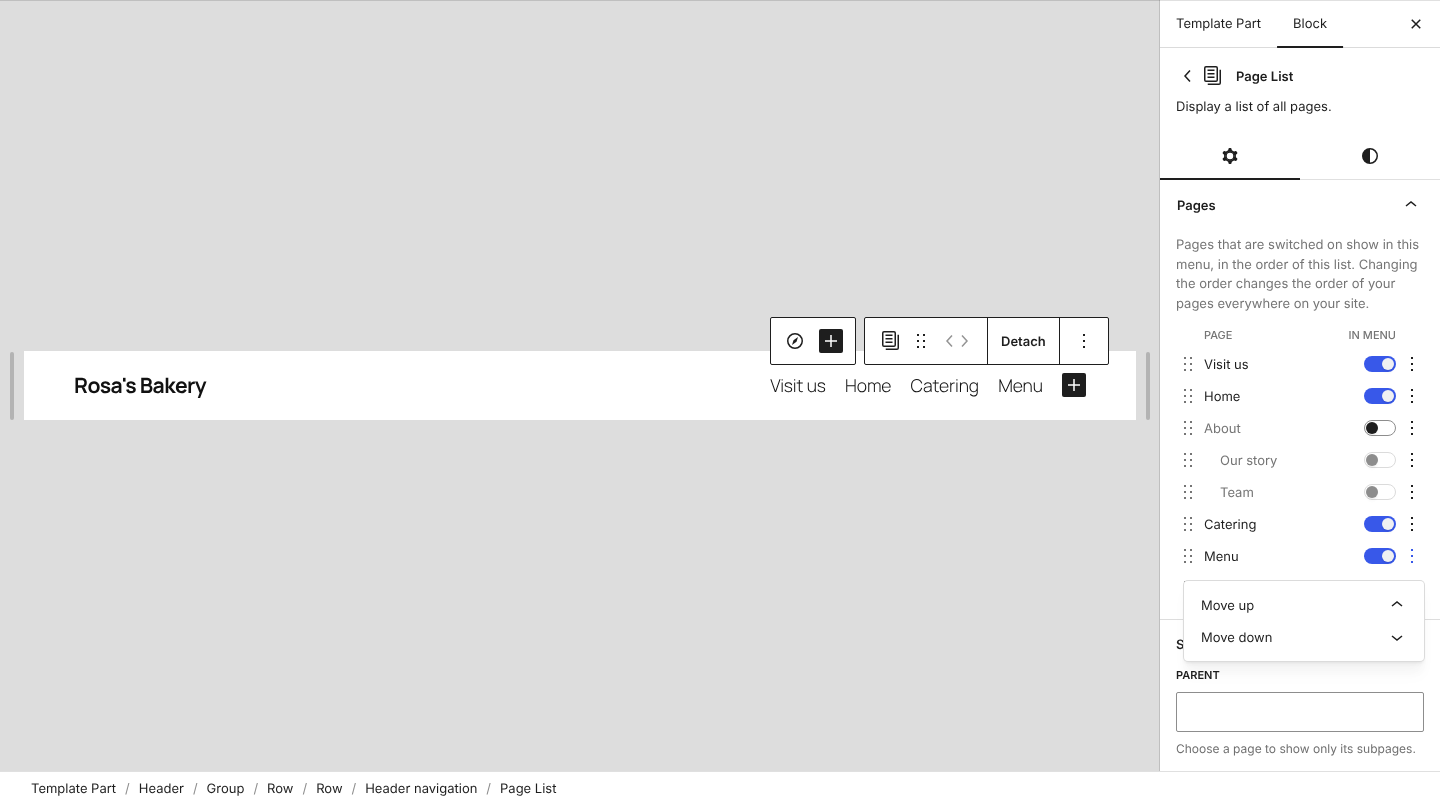
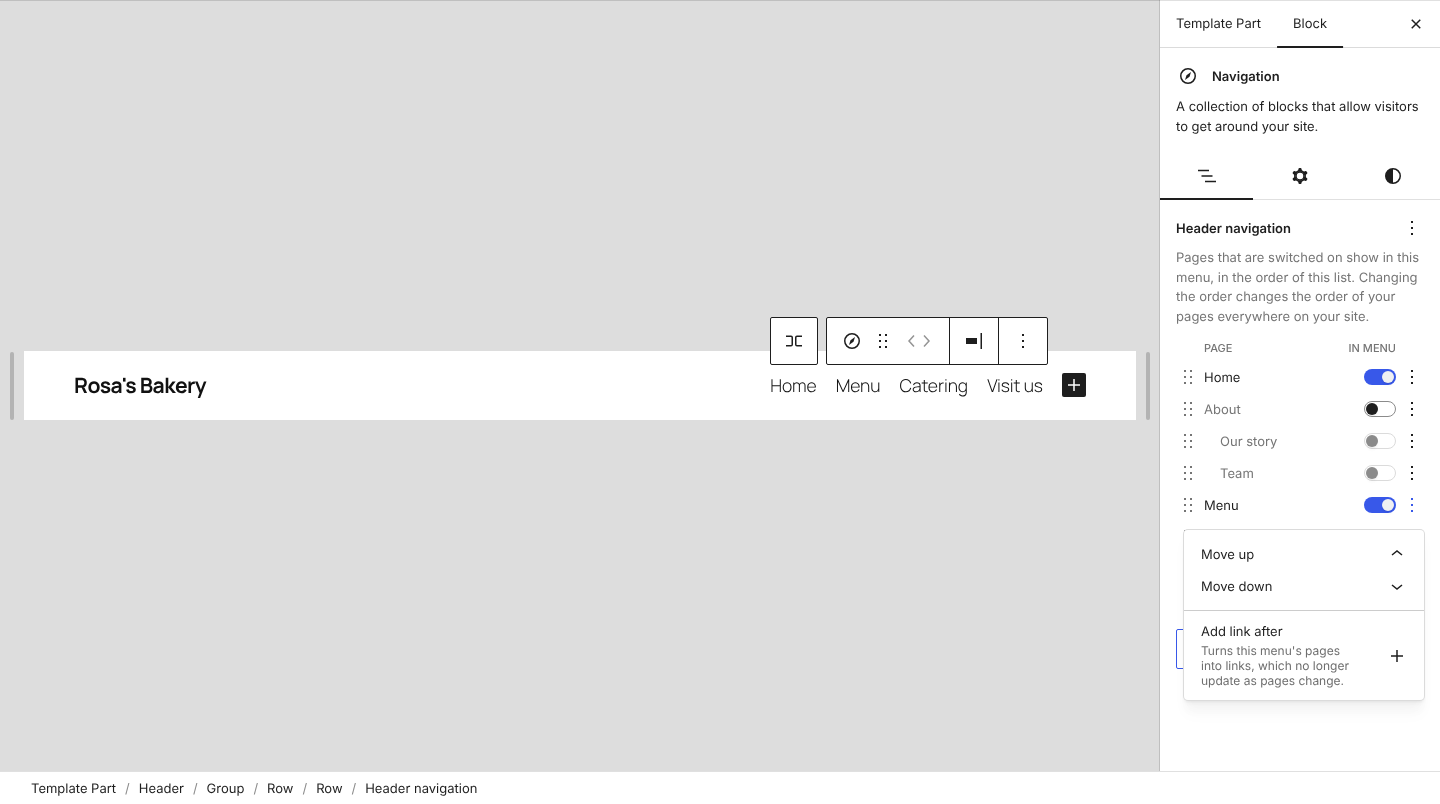
Quinn: pages in the Navigation block's sidebar, drag chip, Add link
Updates the README, screenshots and demo hint for PR #86525 at 7907529:
the Navigation block's sidebar lists the Page List's pages, a chip follows
the cursor while dragging a page, and links are added with Add link or
Add link after.

Claude-Session: https://claude.ai/code/session_019rCnBswqEpRtSyRyjYh3AX

diff --git a/index.html b/index.html
@@ -131,7 +131,7 @@
       <a href="quinn/">
         <strong>Quinn</strong>
         <em>Reorder and hide pages in a Page List menu</em>
-        <span>A Gutenberg pull request: O'Keeffe's prototype F in the real editor. A Page List in the header's menu gets a Pages panel, where you drag pages into a new order and switch them on or off, and the menu stays automatic. Opens a live demo running in WordPress Playground, in your browser.</span>
+        <span>A Gutenberg pull request: O'Keeffe's prototype F in the real editor. The header's menu, a Page List, shows its pages in the sidebar, where you drag them into a new order and switch them on or off, and the menu stays automatic. Opens a live demo running in WordPress Playground, in your browser.</span>
       </a>
     </li>
   </ul>

diff --git a/quinn/index.html b/quinn/index.html
@@ -35,7 +35,7 @@
 
 <div class="bar">
   <strong>Quinn</strong>
-  <span class="hint">Click the header's menu, then Page List in the sidebar. Drag a page to reorder, or switch it off to hide it.</span>
+  <span class="hint">Click the header's menu: the sidebar lists every page. Drag one to reorder, or switch it off to hide it.</span>
   <span class="spacer"></span>
   <a href="https://github.com/Automattic/site-editing-experiments/tree/trunk/quinn#readme">About Quinn</a>
   <a href="https://github.com/WordPress/gutenberg/pull/86525">Gutenberg PR</a>

diff --git a/quinn/README.md b/quinn/README.md
@@ -10,57 +10,68 @@ It's [O'Keeffe](../okeeffe/)'s prototype F, "All pages with menu switches", in t
 
 Locally, check out the `add/page-list-reorder-and-hide-pages` branch of Gutenberg and build it. There's no experiment to turn on.
 
-The build is `gutenberg.zip` in this folder, the PR's own build at `b38609e`, kept here because the PR's builds expire after 14 days. When the PR changes, replace it: download `gutenberg.zip` from the PR's latest **Build Gutenberg Plugin Zip** run, or check out the branch and run `npm ci` and `NO_CHECKS=true npm run build:plugin-zip`.
+The build is `gutenberg.zip` in this folder, the PR's own build at `7907529`, kept here because the PR's builds expire after 14 days. When the PR changes, replace it: download `gutenberg.zip` from the PR's latest **Build Gutenberg Plugin Zip** run, or check out the branch and run `npm ci` and `NO_CHECKS=true npm run build:plugin-zip`.
 
 ## What's in it
 
-### The Pages panel
+### Pages, straight in the Navigation block
 
-![The header's menu selected, with the Page List and its pages in the sidebar, each page with a lock](screenshots/menu-list.png)
+![The header's menu selected: the sidebar lists every page, each with a drag handle, an In menu switch and a ⋮ button, with Our story and Team indented under About, and an Add link button below](screenshots/navigation-sidebar.png)
 
-Click the menu in the header, then **Page List** in the sidebar's list of the menu's items. The Page List's settings open with a **Pages** panel at the top. Every page is listed with its child pages indented under it (Our story and Team, under About). Each row has:
+Click the menu in the header. Where the Navigation block's sidebar would list the Page List, it lists the pages themselves, with their child pages indented under them (Our story and Team, under About). Each row has:
 
-- a **drag handle**: drag a page up or down among the pages at its level, and its child pages go with it. Focus the handle and use the up and down arrow keys to do the same from the keyboard.
+- a **drag handle**: drag a page up or down among the pages at its level, and its child pages go with it. While you drag, a chip with the page's title follows the cursor, like the one shown when dragging blocks. Focus the handle and use the up and down arrow keys to do the same from the keyboard.
 - an **In menu** switch: turn it off and the page leaves the menu. Pages that are off are still published, at their usual address.
-- a **⋮ menu** with Move up and Move down.
+- a **⋮ menu** with Move up, Move down and Add link after.
 
-![The Pages panel: every page with a drag handle, an In menu switch and a ⋮ button, Our story and Team indented under About](screenshots/pages-panel.png)
+![Dragging Catering: a dark chip with its title follows the cursor, the row it came from is faded, and a line shows where it will land](screenshots/drag-chip.png)
 
-![The ⋮ menu for Menu, with Move up and Move down](screenshots/options-menu.png)
+![The ⋮ menu for Menu, with Move up, Move down and Add link after](screenshots/options-menu.png)
 
-In the menu's list, each page now has a lock icon, since its place is set in this panel and it can't be dragged out of the Page List. Clicking a page no longer opens a dialog asking whether to detach the Page List. Detach is still in the toolbar and in Settings, for menus that need custom links or a different order from the site's.
+The pages in the canvas can't be selected on their own, and the Page List no longer appears in the Navigation block's list of items. The same controls are in the Page List's own sidebar, under **Pages**, if you select it another way.
+
+### Adding links
+
+When the menu is only pages, an **Add link** button sits below them. It adds a link after the pages and opens its search. The menu's list of items then appears below the pages, with the Page List as one row, since its pages are edited above.
+
+![After Add link: the new link's search is open in the header, suggesting a post, and the sidebar shows the pages, then a list with Page List and Navigation Link](screenshots/add-link.png)
+
+A link can't go between two pages of a Page List. So **Add link after** in a page's ⋮ menu turns the menu's pages into links first, as Detach does, then adds the new link after that page and opens its search. The ⋮ menu says so. From then on the menu is links, which no longer update as pages change.
+
+![After Add link after Menu: the sidebar lists the pages as links, with a new Navigation Link after Menu, and its search is open in the header](screenshots/add-link-after.png)
 
 ### Order is page order
 
-Page List shows pages in page order (`menu_order`), so that's what the panel changes. The menu stays automatic: a new page still appears in it, in its place. The pages you reorder appear in the save panel alongside the menu, and one Undo puts a whole move back. ![The save panel listing four pages, Home, About, Menu and Visit us, and the Header navigation menu](screenshots/save-panel.png)
+Page List shows pages in page order (`menu_order`), so that's what the controls change. The menu stays automatic: a new page still appears in it, in its place. The pages you reorder appear in the save panel alongside the menu, and one Undo puts a whole move back.
 
-Because it's the site's page order, it changes every Page List on the site, and the panel's help text says so. People who can't edit pages get the switches but no reorder controls.
+![The save panel listing four pages, Home, About, Menu and Visit us, and the Header navigation menu](screenshots/save-panel.png)
+
+Because it's the site's page order, it changes every Page List on the site, and the help text says so. People who can't edit pages get the switches but no reorder controls.
 
 ### Hiding a page
 
-A page that's switched off is saved on the block, in a new `excludedPageIDs` attribute, not on the page. The server leaves it out with `get_pages()` `exclude_tree`, so its child pages go too. In the panel, a hidden page's child pages show their switches off and disabled. Switch the parent back on and they return as they were. Older WordPress ignores the attribute and shows every page.
+A page that's switched off is saved on the block, in a new `excludedPageIDs` attribute, not on the page. The server leaves it out with `get_pages()` `exclude_tree`, so its child pages go too. In the list, a hidden page's child pages show their switches off and disabled. Switch the parent back on and they return as they were. Older WordPress ignores the attribute and shows every page.
 
 Try it with **Thank you for your order**, which no one needs in a menu.
 
-![About and Thank you for your order switched off: the menu shows Visit us, Home, Catering and Menu, and Our story and Team are greyed out with their switches disabled](screenshots/hidden.png)
+![About and Thank you for your order switched off: the menu shows Home, Menu, Catering and Visit us, and Our story and Team are greyed out with their switches disabled](screenshots/hidden.png)
 
 ![The saved site's header: Home, Menu, Visit us and Catering](screenshots/front-end.png)
 
 ### Pages only through the Page List
 
-While a Navigation block has a Page List, the Page List is the only way to add a page to that menu. Searching for a link elsewhere in the menu leaves pages out and suggests posts instead, and "Create page" isn't offered. Custom links, posts and categories can still be added. Page items can't be dragged out of the Page List into the Navigation either.
-
-![Adding a link to the menu and searching for "Cater": no results, as Catering is a page](screenshots/link-search.png)
+While a Navigation block has a Page List, the Page List is the only way to add a page to that menu. Searching for a link elsewhere in the menu leaves pages out and suggests posts instead, as in the Add link screenshot above, and "Create page" isn't offered. Custom links, posts and categories can still be added.
 
 ### Detach
 
-Detach now keeps the menu you see: the same order, with hidden pages left out.
+Detach, from the Page List's toolbar or settings, and Add link after both keep the menu you see: the same order, with hidden pages left out.
 
 ## Open questions
 
 - **Site-wide order.** Reordering here changes the order of every Page List and of the Pages screen. That's the model F tested: the list *is* the menu. But someone moving Catering up in the header may not expect the footer's page list to change too. An order saved on the block would affect only this menu, at the cost of new pages needing a place in it.
 - **Hidden parents.** Hiding a parent hides its child pages. F did the opposite: it promoted the child pages to the top level. Which matches what people expect?
 - **Putting a page under another.** F's ⋮ menu also had "Put under About" and "Take out from under About", which change the page's parent and its address. This leaves those to the page's own settings.
-- **Where the list lives.** The panel is in the Page List's sidebar. Would people look for it in the Navigation block's list view, or on the Pages screen, as in O'Keeffe?
-- **The menu's + button.** It adds a Page Link, labelled "Select page", which here can't link to a page. In a menu with a Page List it should probably add a custom link.
+- **Where the list lives.** The pages are in the Navigation block's sidebar. Would people also look for them on the Pages screen, as in O'Keeffe?
+- **Links between pages.** Add link after detaches the whole menu to put one link between two pages. Is that a surprise, even with the note in the ⋮ menu? The alternative is a Page List that can hold links of its own.
+- **The canvas's + button.** The menu's + in the canvas adds a Page Link, labelled "Select page", which here can't link to a page. In a menu with a Page List it should probably add a custom link, as the sidebar's Add link button does.
 - **Many pages.** The panel lists every page, up to the 100 that Page List loads in the editor. A site with hundreds would need search or collapsed sections.

diff --git a/README.md b/README.md
@@ -19,4 +19,4 @@ Prototypes exploring site editing interactions. Each experiment lives in its own
 - [Nevelson](nevelson/), block settings beside the block, a WordPress plugin: Judd's popovers in the real editor. By the block, the toolbar keeps only the movers, the block's name, formatting and a pencil; the pencil opens a floating card beside the block, headed with its name, with the toolbar's other tools along its top and the editor's own block inspector below, which follows it as you scroll; drag it somewhere else if you'd rather. It's always the clicked block's own settings, even inside a pattern or template part. There's no sidebar: the page's settings open in a card from the Settings button. On a narrow screen the panel is a sheet along the bottom. [Try it in Playground](https://playground.wordpress.net/?blueprint-url=https://raw.githubusercontent.com/Automattic/site-editing-experiments/trunk/nevelson/blueprint.json).
 - [O'Keeffe](okeeffe/), pages and menus, six prototypes for user testing: the Pages screen beside a live preview of the site, so adding a page to the header or footer menu shows straight away. The main one lists every page with a marker saying whether it's in the menu; click it for what that means for visitors and the one action that changes it. Others test the automatic Page List menu most block-theme sites start with (taking a page out switches it to one you choose, after one confirm), a header and footer menu, and three comparisons: "In your menu" and "Other pages" sections, menu settings inside each page, and every page with an "In menu" switch. The README has the test script.
 - [Pollock](pollock/), drag handles, three prototypes for user testing: the block editor already uses the six-dot handle, but as a narrow button with tiny dots, pressed against the move arrows in the toolbar. The same page with only the handle changed: today's handle, a grip on the block's left edge shown on hover, and today's handle made full-size and legible. A facilitator panel (`?notes`) ticks off the tasks and logs how every block was moved, including tries at dragging things that aren't handles. The README has the test script.
-- [Quinn](quinn/), reorder and hide pages in a Page List menu, a Gutenberg pull request: O'Keeffe's prototype F in the real editor. Select the Page List in a Navigation block and a Pages panel lists every page with a drag handle and an In menu switch. Dragging changes the site's page order, which the menu follows. Switching a page off hides it, and its child pages, from this menu, without converting the Page List to links. While the menu has a Page List, it's the only way to add a page to it. [Gutenberg PR](https://github.com/WordPress/gutenberg/pull/86525). [Try it in Playground](https://playground.wordpress.net/?blueprint-url=https://raw.githubusercontent.com/Automattic/site-editing-experiments/trunk/quinn/blueprint.json).
+- [Quinn](quinn/), reorder and hide pages in a Page List menu, a Gutenberg pull request: O'Keeffe's prototype F in the real editor. Select a Navigation block with a Page List and its sidebar lists every page, with a drag handle and an In menu switch. Dragging changes the site's page order, which the menu follows. Switching a page off hides it, and its child pages, from this menu, without converting the Page List to links. While the menu has a Page List, it's the only way to add a page to it. [Gutenberg PR](https://github.com/WordPress/gutenberg/pull/86525). [Try it in Playground](https://playground.wordpress.net/?blueprint-url=https://raw.githubusercontent.com/Automattic/site-editing-experiments/trunk/quinn/blueprint.json).
